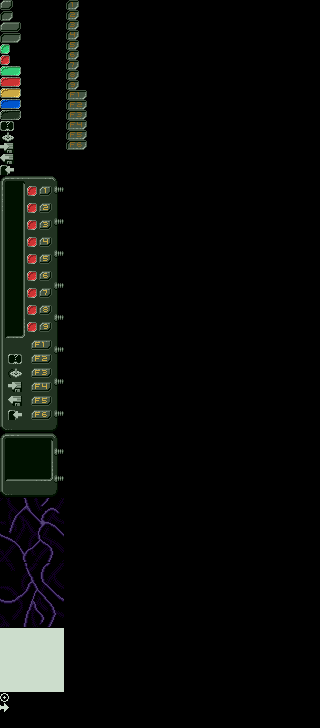
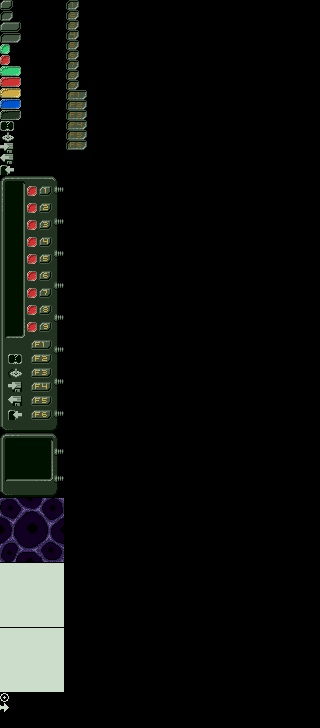
replaced game background

Changed region(s): [[0.0, 0.6648, 0.2188, 0.8764]]

diff --git a/src/game_init.c b/src/game_init.c
@@ -70,10 +70,10 @@ static void gameInitGsCreate(void) {
 	// Draw tiled bg on back buffer
 	for(UBYTE x = 0; x < 256 / 64; ++x) {
 		for(UBYTE y = 0; y < 256 / 64; ++y) {
-			if(x == 0 && y < 2) {
+			if(x == 0 && y == 0) {
 				continue;
 			}
-			UBYTE ubSrcY = ((x + y) & 1) ? 64 : 0;
+			UBYTE ubSrcY = 0;
 			blitCopyAligned(pDisplay, 0, ubSrcY, pDisplay, x * 64, y * 64, 64, 64);
 		}
 	}
